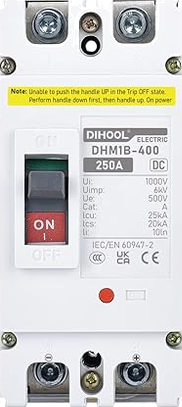
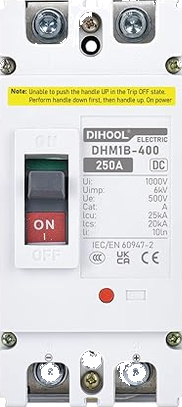
Fix black halo on photoreal equipment faces.
Strip cutout matte/shadows from PNGs and render photo faces without a dark border so alpha composites cleanly.

diff --git a/src/SolarSim.Preview/MainWindow.xaml b/src/SolarSim.Preview/MainWindow.xaml
@@ -36,7 +36,7 @@
                            VerticalAlignment="Center"/>
                     <TextBlock Text="solarSim" FontFamily="{StaticResource DisplayFont}" FontWeight="SemiBold"
                                FontSize="13" Foreground="{DynamicResource TextBrush}" VerticalAlignment="Center" Margin="0,0,8,0"/>
-                    <TextBlock x:Name="AppVersionLabel" Text="0.1.6" Foreground="{DynamicResource MutedBrush}"
+                    <TextBlock x:Name="AppVersionLabel" Text="0.1.7" Foreground="{DynamicResource MutedBrush}"
                                FontSize="11" VerticalAlignment="Center" Margin="0,0,10,0"/>
                     <TextBlock Text="design aid" Foreground="{DynamicResource MutedBrush}" FontSize="11"
                                VerticalAlignment="Center" Margin="0,0,14,0" Opacity="0.85"

diff --git a/src/SolarSim.Preview/MainWindow.xaml.cs b/src/SolarSim.Preview/MainWindow.xaml.cs
@@ -2903,13 +2903,7 @@ public partial class MainWindow : Window
         {
             try
             {
-                var bmp = new System.Windows.Media.Imaging.BitmapImage();
-                bmp.BeginInit();
-                bmp.UriSource = new Uri($"pack://application:,,,/Assets/{item.ImageAsset}", UriKind.Absolute);
-                bmp.CacheOption = System.Windows.Media.Imaging.BitmapCacheOption.OnLoad;
-                bmp.DecodePixelWidth = 96;
-                bmp.EndInit();
-                bmp.Freeze();
+                var bmp = LoadEquipmentFaceBitmap(item.ImageAsset!);
                 stack.Children.Add(new Image
                 {
                     Source = bmp,
@@ -5115,33 +5109,33 @@ public partial class MainWindow : Window
         var isPvIsolatorFace = equipment.Kind == EquipmentKind.PvDisconnect;
         var isBattDiscFace = equipment.Kind == EquipmentKind.BatteryDisconnect;
         var photoFace = isCombiner || isAnenji || isBatteryFace || isPvIsolatorFace || isBattDiscFace;
+        ImageBrush? faceBrush = null;
+        if (isCombiner) faceBrush = CreateCombinerFaceBrush();
+        else if (isAnenji) faceBrush = CreateAnenjiFaceBrush(equipment);
+        else if (isBatteryFace) faceBrush = CreateBatteryFaceBrush(equipment);
+        else if (isPvIsolatorFace) faceBrush = CreateDisconnectFaceBrush();
+        else if (isBattDiscFace) faceBrush = CreateBatteryDisconnectFaceBrush();
+
         var body = new Border
         {
-            Background = isCombiner
-                ? CreateCombinerFaceBrush()
-                : isAnenji
-                    ? CreateAnenjiFaceBrush(equipment)
-                    : isBatteryFace
-                        ? CreateBatteryFaceBrush(equipment)
-                        : isPvIsolatorFace
-                            ? CreateDisconnectFaceBrush()
-                            : isBattDiscFace
-                                ? CreateBatteryDisconnectFaceBrush()
-                                : isInverter
-                                    ? new SolidColorBrush(Color.FromRgb(0xE8, 0xEE, 0xF5))
-                                    : isStorage && !isBattDiscFace
-                                        ? new SolidColorBrush(Color.FromRgb(0xE8, 0xF5, 0xEE))
-                                        : new SolidColorBrush(Color.FromRgb(0xEC, 0xEF, 0xF1)),
+            Background = faceBrush is not null
+                ? Brushes.Transparent
+                : isInverter
+                    ? new SolidColorBrush(Color.FromRgb(0xE8, 0xEE, 0xF5))
+                    : isStorage && !isBattDiscFace
+                        ? new SolidColorBrush(Color.FromRgb(0xE8, 0xF5, 0xEE))
+                        : new SolidColorBrush(Color.FromRgb(0xEC, 0xEF, 0xF1)),
             BorderBrush = photoFace
-                ? new SolidColorBrush(Color.FromRgb(0x3A, 0x3A, 0x3C))
+                ? Brushes.Transparent
                 : isInverter
                     ? new SolidColorBrush(Color.FromRgb(0x37, 0x47, 0x4F))
                     : isStorage
                         ? new SolidColorBrush(Color.FromRgb(0x2E, 0x7D, 0x4F))
                         : new SolidColorBrush(Color.FromRgb(0x54, 0x6E, 0x7A)),
-            BorderThickness = new Thickness(photoFace ? 1.5 : 2),
-            CornerRadius = new CornerRadius(photoFace ? 10 : 4),
+            BorderThickness = new Thickness(photoFace ? 0 : 2),
+            CornerRadius = new CornerRadius(photoFace ? 0 : 4),
             Cursor = Cursors.SizeAll,
+            ClipToBounds = true,
         };
         var title = new TextBlock
         {
@@ -5157,8 +5151,28 @@ public partial class MainWindow : Window
             Padding = photoFace ? new Thickness(6, 3, 6, 3) : new Thickness(0),
             Margin = new Thickness(8, 6, 8, 0),
             IsHitTestVisible = false,
+            HorizontalAlignment = HorizontalAlignment.Left,
+            VerticalAlignment = VerticalAlignment.Top,
         };
-        body.Child = title;
+
+        if (faceBrush is not null)
+        {
+            var face = new Image
+            {
+                Source = faceBrush.ImageSource,
+                Stretch = Stretch.Fill,
+                IsHitTestVisible = false,
+            };
+            RenderOptions.SetBitmapScalingMode(face, BitmapScalingMode.HighQuality);
+            var layer = new Grid();
+            layer.Children.Add(face);
+            layer.Children.Add(title);
+            body.Child = layer;
+        }
+        else
+        {
+            body.Child = title;
+        }
         root.Children.Add(body);
 
         var rotateStem = new Line
@@ -5266,9 +5280,10 @@ public partial class MainWindow : Window
         visual.Body.BorderBrush = selected
             ? (Brush)FindResource("AccentBrush")
             : photoFace
-                ? new SolidColorBrush(Color.FromRgb(0x3A, 0x3A, 0x3C))
+                ? Brushes.Transparent
                 : new SolidColorBrush(Color.FromRgb(0x54, 0x6E, 0x7A));
-        visual.Body.BorderThickness = new Thickness(selected ? 3 : photoFace ? 1.5 : 2);
+        visual.Body.BorderThickness = new Thickness(selected ? 3 : photoFace ? 0 : 2);
+        visual.Body.CornerRadius = new CornerRadius(photoFace ? 0 : 4);
 
         var portSize = photoFace
             ? Math.Clamp(8 * _zoom, 4, 9)
@@ -5410,12 +5425,7 @@ public partial class MainWindow : Window
 
     private static ImageBrush CreateCombinerFaceBrush()
     {
-        var bmp = new System.Windows.Media.Imaging.BitmapImage();
-        bmp.BeginInit();
-        bmp.UriSource = new Uri("pack://application:,,,/Assets/combiner-6string.png", UriKind.Absolute);
-        bmp.CacheOption = System.Windows.Media.Imaging.BitmapCacheOption.OnLoad;
-        bmp.EndInit();
-        bmp.Freeze();
+        var bmp = LoadEquipmentFaceBitmap("combiner-6string.png");
         return new ImageBrush(bmp)
         {
             Stretch = Stretch.Fill,
@@ -5432,12 +5442,7 @@ public partial class MainWindow : Window
             : id == InverterDefinition.Anenji6_5kWDefinitionId
                 ? "inverter-anenji-6_5kw.png"
                 : "inverter-anenji-12kw.png";
-        var bmp = new System.Windows.Media.Imaging.BitmapImage();
-        bmp.BeginInit();
-        bmp.UriSource = new Uri($"pack://application:,,,/Assets/{asset}", UriKind.Absolute);
-        bmp.CacheOption = System.Windows.Media.Imaging.BitmapCacheOption.OnLoad;
-        bmp.EndInit();
-        bmp.Freeze();
+        var bmp = LoadEquipmentFaceBitmap(asset);
         return new ImageBrush(bmp)
         {
             Stretch = Stretch.Fill,
@@ -5459,12 +5464,7 @@ public partial class MainWindow : Window
                 asset = "battery-anenji-10kw.png";
         }
 
-        var bmp = new System.Windows.Media.Imaging.BitmapImage();
-        bmp.BeginInit();
-        bmp.UriSource = new Uri($"pack://application:,,,/Assets/{asset}", UriKind.Absolute);
-        bmp.CacheOption = System.Windows.Media.Imaging.BitmapCacheOption.OnLoad;
-        bmp.EndInit();
-        bmp.Freeze();
+        var bmp = LoadEquipmentFaceBitmap(asset);
         return new ImageBrush(bmp)
         {
             Stretch = Stretch.Fill,
@@ -5475,12 +5475,7 @@ public partial class MainWindow : Window
 
     private static ImageBrush CreateDisconnectFaceBrush()
     {
-        var bmp = new System.Windows.Media.Imaging.BitmapImage();
-        bmp.BeginInit();
-        bmp.UriSource = new Uri("pack://application:,,,/Assets/disconnect-pv-isolator.png", UriKind.Absolute);
-        bmp.CacheOption = System.Windows.Media.Imaging.BitmapCacheOption.OnLoad;
-        bmp.EndInit();
-        bmp.Freeze();
+        var bmp = LoadEquipmentFaceBitmap("disconnect-pv-isolator.png");
         return new ImageBrush(bmp)
         {
             Stretch = Stretch.Fill,
@@ -5491,18 +5486,31 @@ public partial class MainWindow : Window
 
     private static ImageBrush CreateBatteryDisconnectFaceBrush()
     {
-        var bmp = new System.Windows.Media.Imaging.BitmapImage();
-        bmp.BeginInit();
-        bmp.UriSource = new Uri("pack://application:,,,/Assets/battery-disconnect-dhm1b.png", UriKind.Absolute);
-        bmp.CacheOption = System.Windows.Media.Imaging.BitmapCacheOption.OnLoad;
-        bmp.EndInit();
-        bmp.Freeze();
+        var bmp = LoadEquipmentFaceBitmap("battery-disconnect-dhm1b.png");
         return new ImageBrush(bmp)
         {
             Stretch = Stretch.Fill,
             AlignmentX = AlignmentX.Center,
             AlignmentY = AlignmentY.Center,
         };
+    }
+
+    private static System.Windows.Media.Imaging.BitmapSource LoadEquipmentFaceBitmap(string assetFile)
+    {
+        var bmp = new System.Windows.Media.Imaging.BitmapImage();
+        bmp.BeginInit();
+        bmp.UriSource = new Uri($"pack://application:,,,/Assets/{assetFile}", UriKind.Absolute);
+        bmp.CacheOption = System.Windows.Media.Imaging.BitmapCacheOption.OnLoad;
+        bmp.CreateOptions = System.Windows.Media.Imaging.BitmapCreateOptions.PreservePixelFormat;
+        bmp.EndInit();
+        // Pbgra32 so transparent cutouts composite cleanly (no black matte in WPF).
+        var converted = new System.Windows.Media.Imaging.FormatConvertedBitmap(
+            bmp,
+            PixelFormats.Pbgra32,
+            null,
+            0);
+        converted.Freeze();
+        return converted;
     }
 
     private static bool IsAnenjiHybridFace(ElectricalEquipmentInstance equipment)

diff --git a/CHANGELOG.md b/CHANGELOG.md
@@ -210,6 +210,10 @@ Current `.solarproj` schema: **10** · Domain tests: run `dotnet test` (expect a
 - Electrical Add catalog uses real equipment photos (ANENJI inverters & batteries, combiner, isolators)
 - Equipment workspace hides roof / panel / obstacle tools so the canvas stays equipment-focused
 
+### Equipment face cleanup (`0.1.7`)
+- Stripped black matte / floor-shadow fringe from photoreal equipment PNGs
+- Photo faces render without a dark rounded chrome border; alpha composites cleanly (no black halo)
+
 ---
 
 ## How to verify for submission
